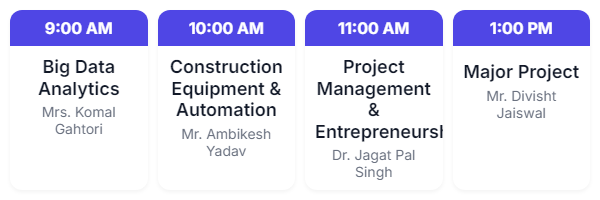
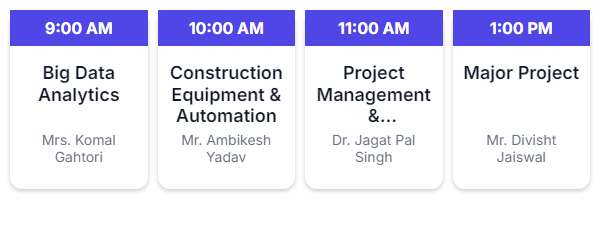
web work complete for v2.O

diff --git a/server/server.js b/server/server.js
@@ -38,7 +38,7 @@ const config2 = {
   waitForConnections: true,
 }
 
-const pool = mysql.createPool(config2);
+const pool = mysql.createPool(config);
 
 // nodemailer transporter
 // console.log(process.env.EMAIL, process.env.PASS)
@@ -85,7 +85,6 @@ app.post("/save-fcm-token", async (req, res) => {
 
   // subscribe to topics
   topics.forEach(async (topic) => {
-    // console.log(topic)
     await admin.messaging().subscribeToTopic(token, topic);
   })
 
@@ -543,8 +542,24 @@ app.post("/set-substitutor", async (req, res) => {
             body: action === "acquired" ? `Your class ${substitutedClass[0].subject_name} acquired by ${substitutor.teacher_name}` : `Your class ${substitutedClass[0].subject_name} substitution cancelled by ${substitutor.teacher_name}`,
           },
           tokens: tokens,
+
           android: {
-            priority: "high"
+            priority: "high",
+          },
+
+          webpush: {
+            headers: {
+              Urgency: "high"
+            },
+
+            notification: {
+              title: `Substitution ${action === "acquired" ? "acquired" : "cancelled"}`,
+              body: action === "acquired" ? `Your class ${substitutedClass[0].subject_name} acquired by ${substitutor.teacher_name}` : `Your class ${substitutedClass[0].subject_name} substitution cancelled by ${substitutor.teacher_name}`,
+            },
+
+            fcmOptions: {
+              link: "https://attendease-nivr.onrender.com/"
+            }
           }
         };
 
@@ -841,8 +856,32 @@ app.post("/teacher-availability", async (req, res) => {
             on: req.body.on
           })
         },
+
         android: {
-          priority: "high"
+          priority: "high",
+        },
+
+        webpush: {
+          headers: {
+            Urgency: "high"
+          },
+
+          notification: {
+            title: "Class Cancelled",
+            body: `Period ${notification[topic].map((p => p.period_id)).join(", ")} of ${notification[topic][0].teacher_name} Cancelled, ${!!on ? "for" : "from"} ${new Date(from).toLocaleDateString("en-Gb", {
+              day: "numeric",
+              month: "short",
+              year: "numeric"
+            })} ${!!on ? "" : `to ${new Date(to).toLocaleDateString("en-Gb", {
+              day: "numeric",
+              month: "short",
+              year: "numeric"
+            })}`}`,
+          },
+
+          fcmOptions: {
+            link: "https://attendease-nivr.onrender.com/"
+          }
         }
       });
     })
@@ -862,8 +901,6 @@ app.post("/teacher-availability", async (req, res) => {
 // fetch announcemetns
 app.get("/announcements", async (req, res) => {
   const { role, teacher_id, year, branch, section, time } = req.query;
-
-  console.log(role, teacher_id);
 
   const query = `
     SELECT 
@@ -1057,6 +1094,13 @@ async function notifyTimetable(day) {
 
         // create image of timetable
         const scheduleImage = classes.length > 0 ? await createTableImage(topic, dayName, classes) : null;
+        
+        const isProduction = true;
+        const BASE_URL = isProduction
+        ? "https://attendease-nivr.onrender.com"
+        : `http://localhost:8000`;
+        
+        const scheduleImageUrl = `${BASE_URL}${scheduleImage}?v=${new Date().getTime()}`;
 
         if (classes.length > 0) {
           await admin.messaging().send({
@@ -1068,8 +1112,25 @@ async function notifyTimetable(day) {
               classes: JSON.stringify(classes),
               schedule_image: scheduleImage,
             },
+
             android: {
               priority: "high",
+            },
+
+            webpush: {
+              headers: {
+                Urgency: "high"
+              },
+
+              notification: {
+                title: "📚 Today's Classes",
+                image: scheduleImageUrl,
+                icon: "/icon-512.png",
+              },
+
+              fcmOptions: {
+                link: "https://attendease-nivr.onrender.com/"
+              }
             }
           });
         }
@@ -1121,7 +1182,6 @@ async function notifyGroup(title, body, dataType, data, target_year, target_bran
       }
     }
 
-    // console.log(topics);
     topics.forEach(async (topic) => {
       await admin.messaging().send({
         topic: topic,
@@ -1135,7 +1195,23 @@ async function notifyGroup(title, body, dataType, data, target_year, target_bran
 
         android: {
           priority: "high",
+        },
+
+        webpush: {
+          headers: {
+            Urgency: "high"
+          },
+
+          notification: {
+            title,
+            body,
+          },
+
+          fcmOptions: {
+            link: "https://attendease-nivr.onrender.com/"
+          }
         }
+
       });
     })
 
@@ -1152,9 +1228,26 @@ async function notify(token, title, body, dataType, data) {
       body,
       data: JSON.stringify(data)
     },
+
     android: {
-      priority: "high"
+      priority: "high",
     },
+
+    webpush: {
+      headers: {
+        Urgency: "high"
+      },
+
+      notification: {
+        title,
+        body,
+      },
+
+      fcmOptions: {
+        link: "https://attendease-nivr.onrender.com/"
+      }
+    }
+
   };
 
   try {

diff --git a/AttendEaseWebsite/public/index.html b/AttendEaseWebsite/public/index.html
@@ -4,13 +4,13 @@
     <meta charset="utf-8" />
 
     <!-- Favicon -->
-    <link rel="icon" href="%PUBLIC_URL%/attendease_icon.ico" />
+    <link rel="icon" href="%PUBLIC_URL%/icon_new.png" />
 
     <!-- Responsive -->
     <meta name="viewport" content="width=device-width, initial-scale=1" />
 
     <!-- Theme -->
-    <meta name="theme-color" content="#ffffff" />
+    <meta name="theme-color" content="#f5f7fb" />
 
     <!-- Primary SEO -->
     <title>AttendEase | Smart College Scheduler & Class Notifications</title>
@@ -36,7 +36,7 @@
     />
     <meta property="og:type" content="website" />
     <meta property="og:url" content="https://timetable-bs7j.onrender.com" />
-    <meta property="og:image" content="%PUBLIC_URL%/AttendEase_icon.png" />
+    <meta property="og:image" content="%PUBLIC_URL%/attendease_icon.png" />
 
     <!-- Twitter Card -->
     <meta name="twitter:card" content="summary_large_image" />
@@ -45,10 +45,10 @@
       name="twitter:description"
       content="A smart platform for college timetable management and real-time academic notifications."
     />
-    <meta name="twitter:image" content="%PUBLIC_URL%/AttendEase_icon.png" />
+    <meta name="twitter:image" content="%PUBLIC_URL%/attendease_icon.png" />
 
     <!-- Apple -->
-    <link rel="apple-touch-icon" href="%PUBLIC_URL%/AttendEase_icon.png" />
+    <link rel="apple-touch-icon" href="%PUBLIC_URL%/attendease_icon.png" />
 
     <!-- Manifest -->
     <link rel="manifest" href="%PUBLIC_URL%/manifest.json" />

diff --git a/AttendEaseWebsite/src/services/states.jsx b/AttendEaseWebsite/src/services/states.jsx
@@ -7,7 +7,7 @@ const GlobalContext = createContext();
 
 export const GlobalProvider = ({ children }) => {
 
-    const isProduction = false;
+    const isProduction = true;
 
     // ⚠ IMPORTANT:
     // Replace this with your computer’s local IP
@@ -163,8 +163,8 @@ export const GlobalProvider = ({ children }) => {
                     topics: userCreds?.role === "Student"
                         ? [
                             `year_${userCreds?.year}`,
-                            `branch_${userCreds?.branch}`,
-                            `${userCreds?.branch}_${userCreds?.year}_${userCreds?.section}`
+                            `branch_${userCreds?.branch_id}`,
+                            `${userCreds?.branch_id}_${userCreds?.year}_${userCreds?.section}`
                         ]
                         : ["teachers"]
                 })
@@ -229,7 +229,6 @@ export const GlobalProvider = ({ children }) => {
         const res_data = await response.data.json();
 
         const announcements = res_data.data;
-        console.log(announcements)
         if (announcements.length > 0) {
             setAnnouncements(announcements);
         }
@@ -278,7 +277,7 @@ export const GlobalProvider = ({ children }) => {
         classes, setClasses,
         loadTimetable,
         loadLeaves,
-        announcements,
+        announcements, loadAnnouncements, 
         leaveHistory, setLeaveHistory,
         teacherLeaveHistory,
         requestNotification,

diff --git a/AttendEaseWebsite/public/firebase-messaging-sw.js b/AttendEaseWebsite/public/firebase-messaging-sw.js
@@ -15,17 +15,10 @@ firebase.initializeApp(firebaseConfig);
 const messaging = firebase.messaging();
 
 messaging.onBackgroundMessage((payload) => {
-    console.log("Background Message received: ", payload);
+    console.log("Background Message:", payload);
 
-    const notificationTitle = payload.data?.title || "New Update";
-
-    const notificationOptions = {
-        body: payload.data?.body || "Open AttendEase for details",
-        icon: "./AttendEase_icon.png",
-        data: payload.data,
-        tag: "alerts", // Prevents notification stacking
-        badge: "./AttendEase_badge.png",
-    };
-
-    return self.registration.showNotification(notificationTitle, notificationOptions);
+    self.registration.showNotification(payload.data.title, {
+        body: payload.data.body,
+        icon: "./icon-512.png",
+    });
 });

diff --git a/AttendEaseWebsite/src/components/TeacherLeave.jsx b/AttendEaseWebsite/src/components/TeacherLeave.jsx
@@ -17,7 +17,7 @@ import {
 
 const TeacherLeave = ({ onClose }) => {
     const {
-        userData,
+        userData, 
         classes,
         loadTimetable,
         loadLeaves,
@@ -54,6 +54,17 @@ const TeacherLeave = ({ onClose }) => {
     };
 
     const handleSubmit = async () => {
+        if(leaveType === "period" && periods.length <= 0) {
+            alert("Select one class atleast.");
+            return;
+        }else if(leaveType === "date" && !!!onDate) {
+            alert("Select Date.");
+            return;
+        } else if(!!!fromDate || !!!toDate) {
+            alert("Select from/to date.")
+            return;
+        }
+
         try {
             console.log(fromDate, toDate, onDate);
             const payload = {

diff --git a/AttendEaseWebsite/src/components/Announce.jsx b/AttendEaseWebsite/src/components/Announce.jsx
@@ -36,7 +36,7 @@ const SECTION_OPTIONS = [
 ];
 
 export default function Announce() {
-  const { userData, buildUrl, formatDate } = AppStates();
+  const { userData, buildUrl, formatDate, loadAnnouncements } = AppStates();
   const { isDark } = useTheme();
 
   const [loading, setLoading] = useState(false);
@@ -80,6 +80,7 @@ export default function Announce() {
 
       const resData = await response.json();
       if (resData.success) {
+        loadAnnouncements();
         setFormData({ title: "", body: "", expires_at: "" });
         setTargetYears([]);
         setTargetBranches([]);

diff --git a/AttendEaseWebsite/src/App.js b/AttendEaseWebsite/src/App.js
@@ -18,7 +18,18 @@ import BLETechPage from "./pages/BLETechPage";
 import TeamPage from "./pages/TeamPage";
 import DownloadApp from "./pages/DownloadApp";
 
-// import LandingHeader from './components/LandingHeader';
+
+// if ("serviceWorker" in navigator) {
+//   navigator.serviceWorker
+//     .register("/firebase-messaging-sw.js")
+//     .then((registration) => {
+//       console.log("SW registered:", registration);
+//     })
+//     .catch((err) => {
+//       console.error("SW registration failed:", err);
+//     });
+// }
+
 
 function App() {
   return (

diff --git a/AttendEaseWebsite/src/services/firebase.js b/AttendEaseWebsite/src/services/firebase.js
@@ -1,9 +1,6 @@
-// Import the functions you need from the SDKs you need
 import { initializeApp } from "firebase/app";
-// import { getAnalytics } from "firebase/analytics";
 import { getMessaging } from "firebase/messaging";
-// TODO: Add SDKs for Firebase products that you want to use
-// https://firebase.google.com/docs/web/setup#available-libraries
+import { onMessage } from "firebase/messaging";
 
 // Your web app's Firebase configuration
 // For Firebase JS SDK v7.20.0 and later, measurementId is optional
